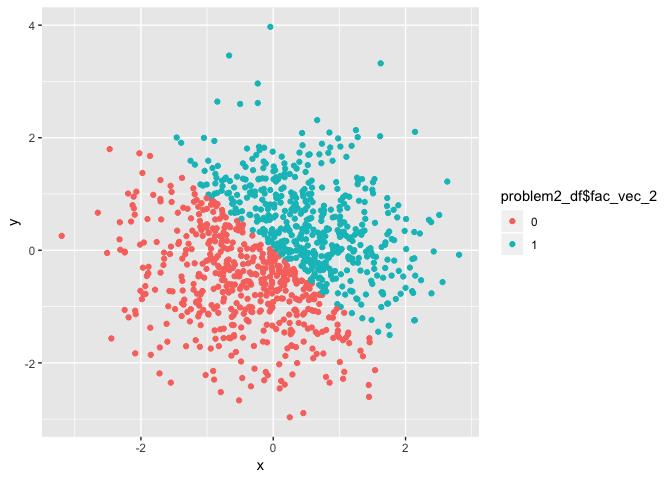
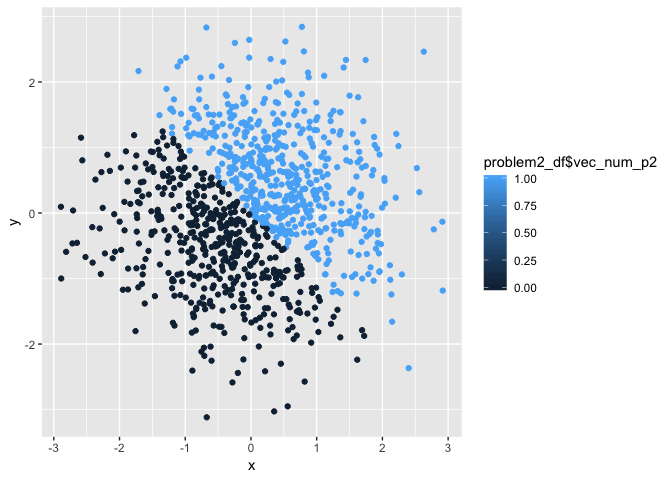
Commit with edited variable names

diff --git a/p8105_hw1_gwk2111.md b/p8105_hw1_gwk2111.md
@@ -12,91 +12,131 @@ Creating a data frame for question 1:
 
 ``` r
 problem1_df = tibble(
-  random_sample = runif(10, 0, 5),
-  vec_logical = random_sample > 2,
-  vec_char = c("a", "b", "c", "d", "e", "f", "g", "h", "i", "j"),
-  vec_factor = factor(c(vec_char))
+  random_sample_p1 = runif(10, 0, 5),
+  vec_logical_p1 = random_sample_p1 > 2,
+  vec_char_p1 = c("a", "b", "c", "d", "e", "f", "g", "h", "i", "j"),
+  vec_factor_p1 = factor(vec_char_p1)
   
 )
 ```
 
-The mean of random\_sample is 2.1534117.
+Next, I will take the mean of each of my variables:
 
-The mean of vec\_logical is 0.4.
+``` r
+mean(problem1_df$random_sample_p1)
+```
 
-The mean of vec\_char is NA.
+    ## [1] 2.873234
 
-The mean of vec factor is NA.
+``` r
+mean(problem1_df$vec_logical_p1)
+```
+
+    ## [1] 0.6
+
+``` r
+mean(problem1_df$vec_char_p1)
+```
+
+    ## Warning in mean.default(problem1_df$vec_char_p1): argument is not numeric
+    ## or logical: returning NA
+
+    ## [1] NA
+
+``` r
+mean(problem1_df$vec_factor_p1)
+```
+
+    ## Warning in mean.default(problem1_df$vec_factor_p1): argument is not numeric
+    ## or logical: returning NA
+
+    ## [1] NA
 
 We are only able to calculate the mean of random\_sample and the logic vector. Random\_sample is a numeric variable, so we would expect to be able to calculate the mean. The logic vector is a dichotomous variable that r recognizes as either "1" when "TRUE" and "0" when "FALSE", which is why the mean can also be calculated for this variable. The character and factor vectors have character values, and so a mean cannot be calculated because there is no numerical value.
 
 ### Converting Variables with Codechunks
 
-Below, I use the *as.numeric* function to the logical, character, and vector variables:
+Below, I use the `as.numeric` function to the logical, character, and vector variables:
 
 ``` r
-p1_log_to_numeric = as.numeric(problem1_df$vec_logical)
-p1_fact_to_numeric = as.numeric(problem1_df$vec_factor)
-p1_char_to_numeric = as.numeric(problem1_df$vec_char)
+as.numeric(problem1_df$vec_logical_p1)
+as.numeric(problem1_df$vec_factor_p1)
+as.numeric(problem1_df$vec_char_p1)
 ```
 
     ## Warning: NAs introduced by coercion
 
-When I use the *as.numeric* function, the logical variable is converted to 0 or 1 (1 for TRUE and 0 for FALSE). When *as.numeric* is applied to the character vector, we see a warning message that explains NA was introduced by coercion. When *as.numeric* is applied to the factor variable, it is assigned a new number for each new character. They are numbered 1 to 10.
+When I use the `as.numeric` function, the logical variable is converted to 0 or 1 (1 for TRUE and 0 for FALSE). When `as.numeric` is applied to the character vector, we see a warning message that explains NA was introduced by coercion. When `as.numeric` is applied to the factor variable, it is assigned a new number for each new character. They are numbered 1 to 10.
 
-Next I will convert my character variable to a factor variable and then a numeric variable
+Next I will convert my character variable to a factor variable and then a numeric variable:
 
 ``` r
-p1_char_fact_numeric = as.numeric(as.factor(problem1_df$vec_char))
+as.numeric(as.factor(problem1_df$vec_char_p1))
 ```
+
+    ##  [1]  1  2  3  4  5  6  7  8  9 10
 
 My variables are converted to numeric and numbered the same as the factor variable described above.
 
 Finally, I will convert my factor variable to a character variable and then a numeric variable.
 
 ``` r
-p1_fact_char_numeric = as.numeric(as.character(problem1_df$vec_factor))
+as.numeric(as.character(problem1_df$vec_factor_p1))
 ```
 
     ## Warning: NAs introduced by coercion
 
-I get the same warning message described above. NA is introduced instead of numbers.
+    ##  [1] NA NA NA NA NA NA NA NA NA NA
+
+I get the same warning message described above. NA is introduced instead of numbers. We are not able to transform character vectors to numeric. As demonstrated above, we would need to convert a character vector to a factor vector before converting it to numeric.
 
 Problem 2
 ---------
+
+### Create the Problem 2 Data Frame
+
+Creating a data frame for question 2:
 
 ``` r
 problem2_df = tibble(
   x = rnorm(1000),
   y = rnorm(1000),
-  vec_logical_2 = x + y > 0,
-  num_vec = as.numeric(vec_logical_2),
-  fac_vec_2 = as.factor(num_vec)
+  vec_logical_p2 = x + y > 0,
+  vec_num_p2 = as.numeric(vec_logical_p2),
+  vec_factor_p2 = as.factor(vec_num_p2)
 )
 ```
 
-The dataset has 1000 observations and 5 variables. The mean of x is 0.0407378 and the median of x is 0.0798749. The proportion of cases for which the logical vector is true is 0.501.
+The dataset has 1000 rows and 5 columns. The mean of x is 0.0151715 and the median of x is 0.024873. The proportion of cases for which the logical vector is true is 0.526.
+
+### Plotting Problem 2
+
+Plot with color points using logical vector:
 
 ``` r
-ggplot(problem2_df, aes(x = x, y = y, color = problem2_df$vec_logical_2)) + geom_point()
-```
-
-![](p8105_hw1_gwk2111_files/figure-markdown_github/unnamed-chunk-6-1.png)
-
-``` r
-ggsave("p2_Logic_scatter_plot.pdf", height = 4, width = 6)
-```
-
-``` r
-ggplot(problem2_df, aes(x = x, y = y, color = problem2_df$num_vec)) + geom_point()
+ggplot(problem2_df, aes(x = x, y = y, color = problem2_df$vec_logical_p2)) + geom_point()
 ```
 
 ![](p8105_hw1_gwk2111_files/figure-markdown_github/unnamed-chunk-7-1.png)
 
 ``` r
-ggplot(problem2_df, aes(x = x, y = y, color = problem2_df$fac_vec_2)) + geom_point()
+ggsave("p2_Logic_scatter_plot.pdf", height = 4, width = 6)
+```
+
+Plot with color points using numeric vector:
+
+``` r
+ggplot(problem2_df, aes(x = x, y = y, color = problem2_df$vec_num_p2)) + geom_point()
 ```
 
 ![](p8105_hw1_gwk2111_files/figure-markdown_github/unnamed-chunk-8-1.png)
+
+Plot with color points using factor vector:
+
+``` r
+ggplot(problem2_df, aes(x = x, y = y, color = problem2_df$vec_factor_p2)) + geom_point()
+```
+
+![](p8105_hw1_gwk2111_files/figure-markdown_github/unnamed-chunk-9-1.png)
 
 The color scales for the numeric vector scatter plot is different than the color scale for the factor vector and logical vector plot. While all three vectors only have values of 0 and 1, the numeric scale is a gradient between 0 and 1, while the factor vector and logical vector are dichotomous values with the only possible answers 0 and 1.
